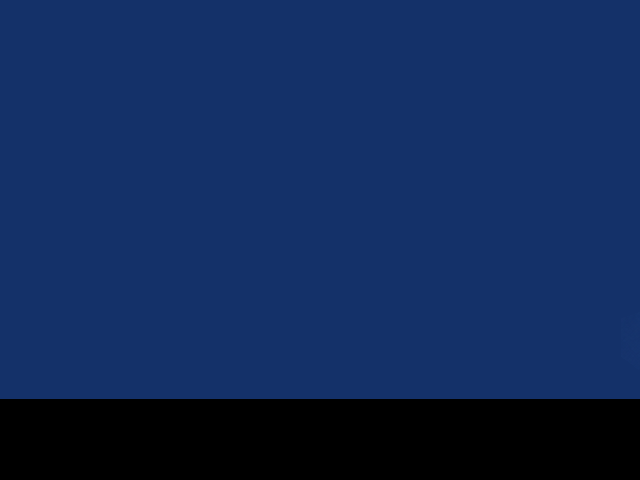
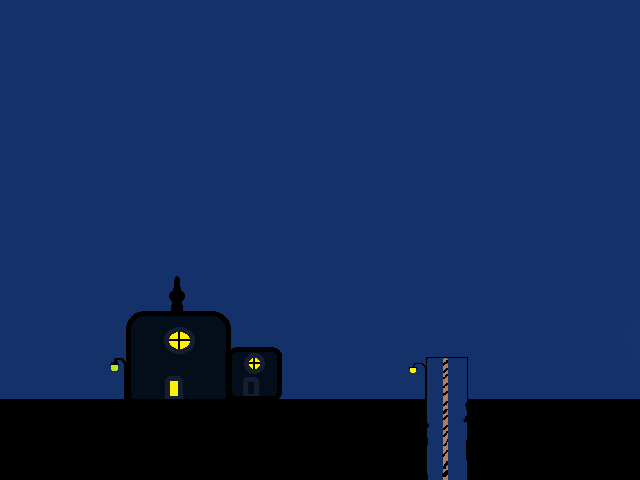
cenario01 terminado

Changed region(s): [[0.1562, 0.5625, 0.4375, 0.8438], [0.625, 0.75, 0.75, 1.0]]

diff --git a/super_tiago.js b/super_tiago.js
@@ -1,7 +1,7 @@
 const mycanvas = document.getElementById("mycanvas")
 const ctx = mycanvas.getContext("2d")
 
-const floor = 810
+const floor = 440
 const passos = 5
 
 let sceneId = 0
